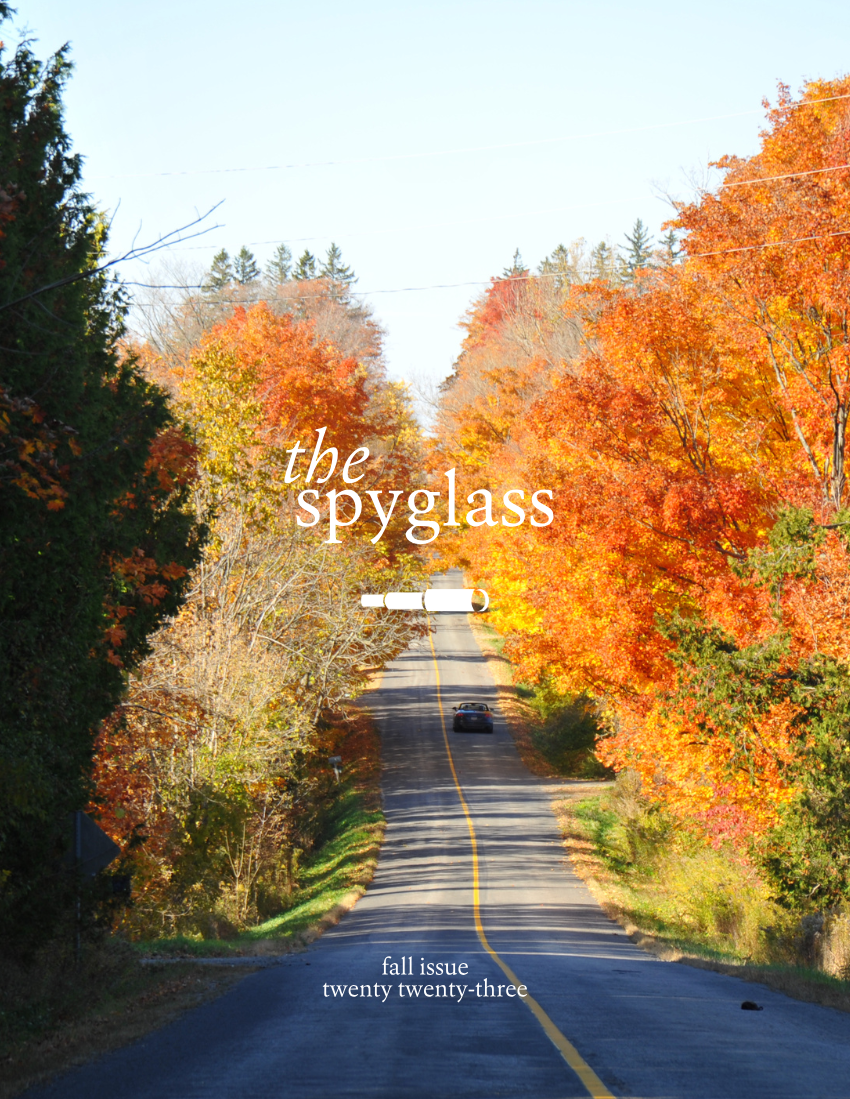
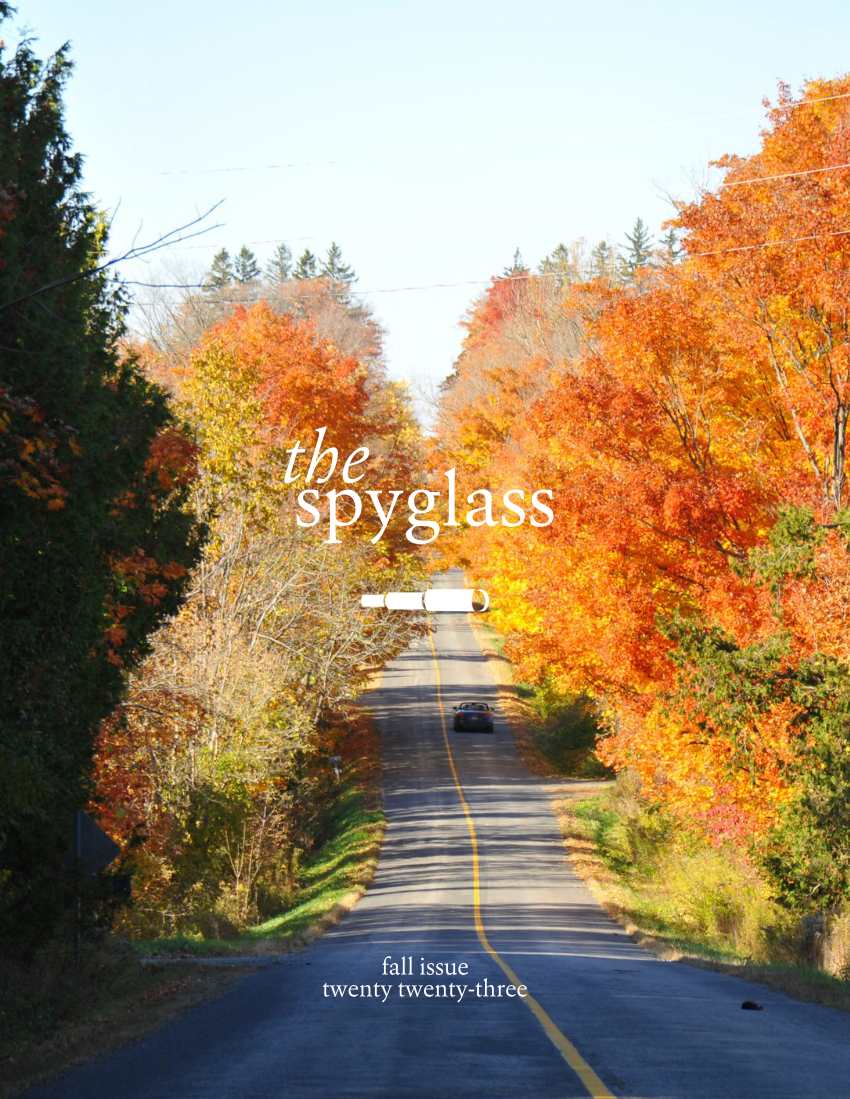
Switched to warns instead of build failures, replaced the newest issue with a higher quality version.

diff --git a/svelte.config.js b/svelte.config.js
@@ -9,6 +9,9 @@ const config = {
 			fallback: null,
 			precompress: false
 		}),
+		prerender: {
+			handleHttpError: "warn"
+		},
 		paths: {
 			base: process.env.NODE_ENV === "production" ? "" : ""
 		}